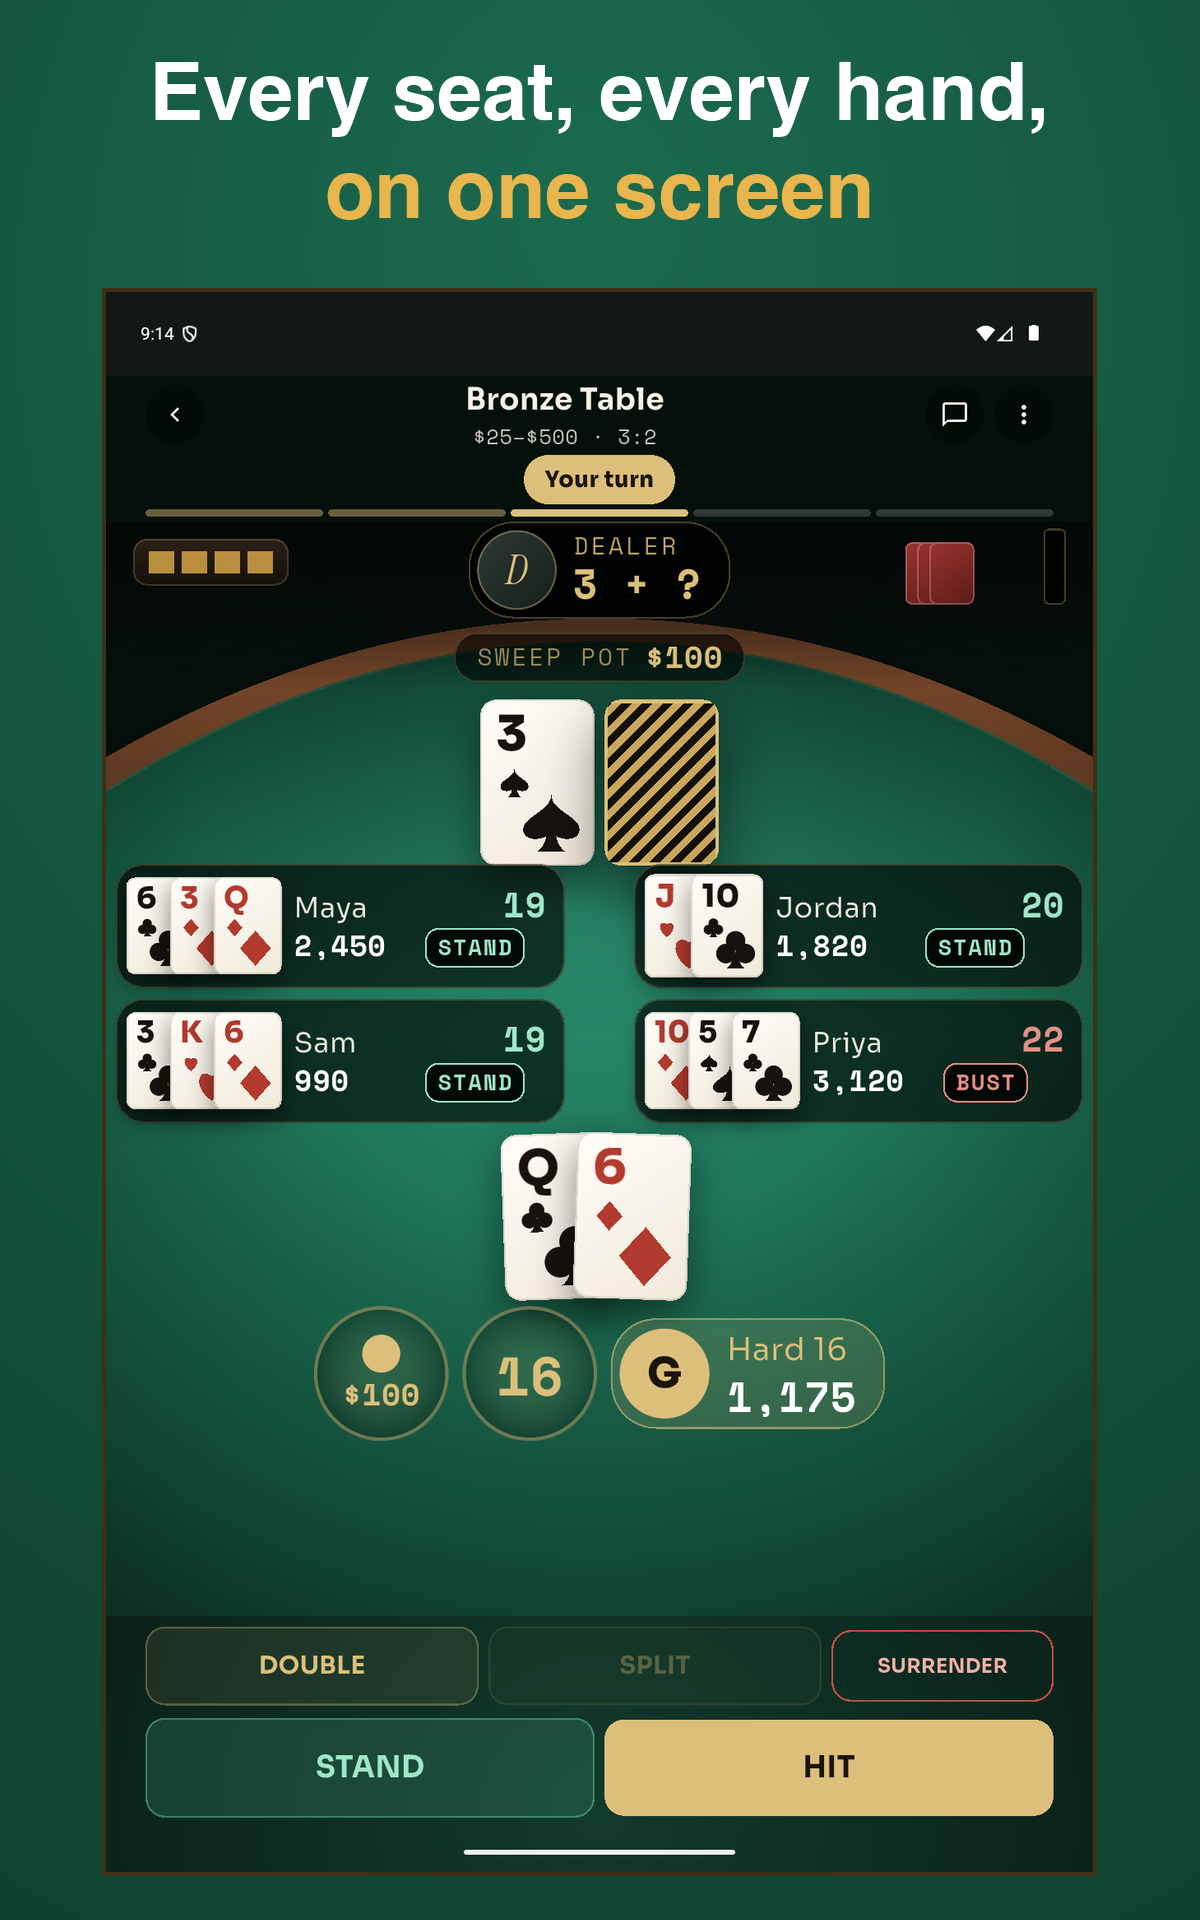
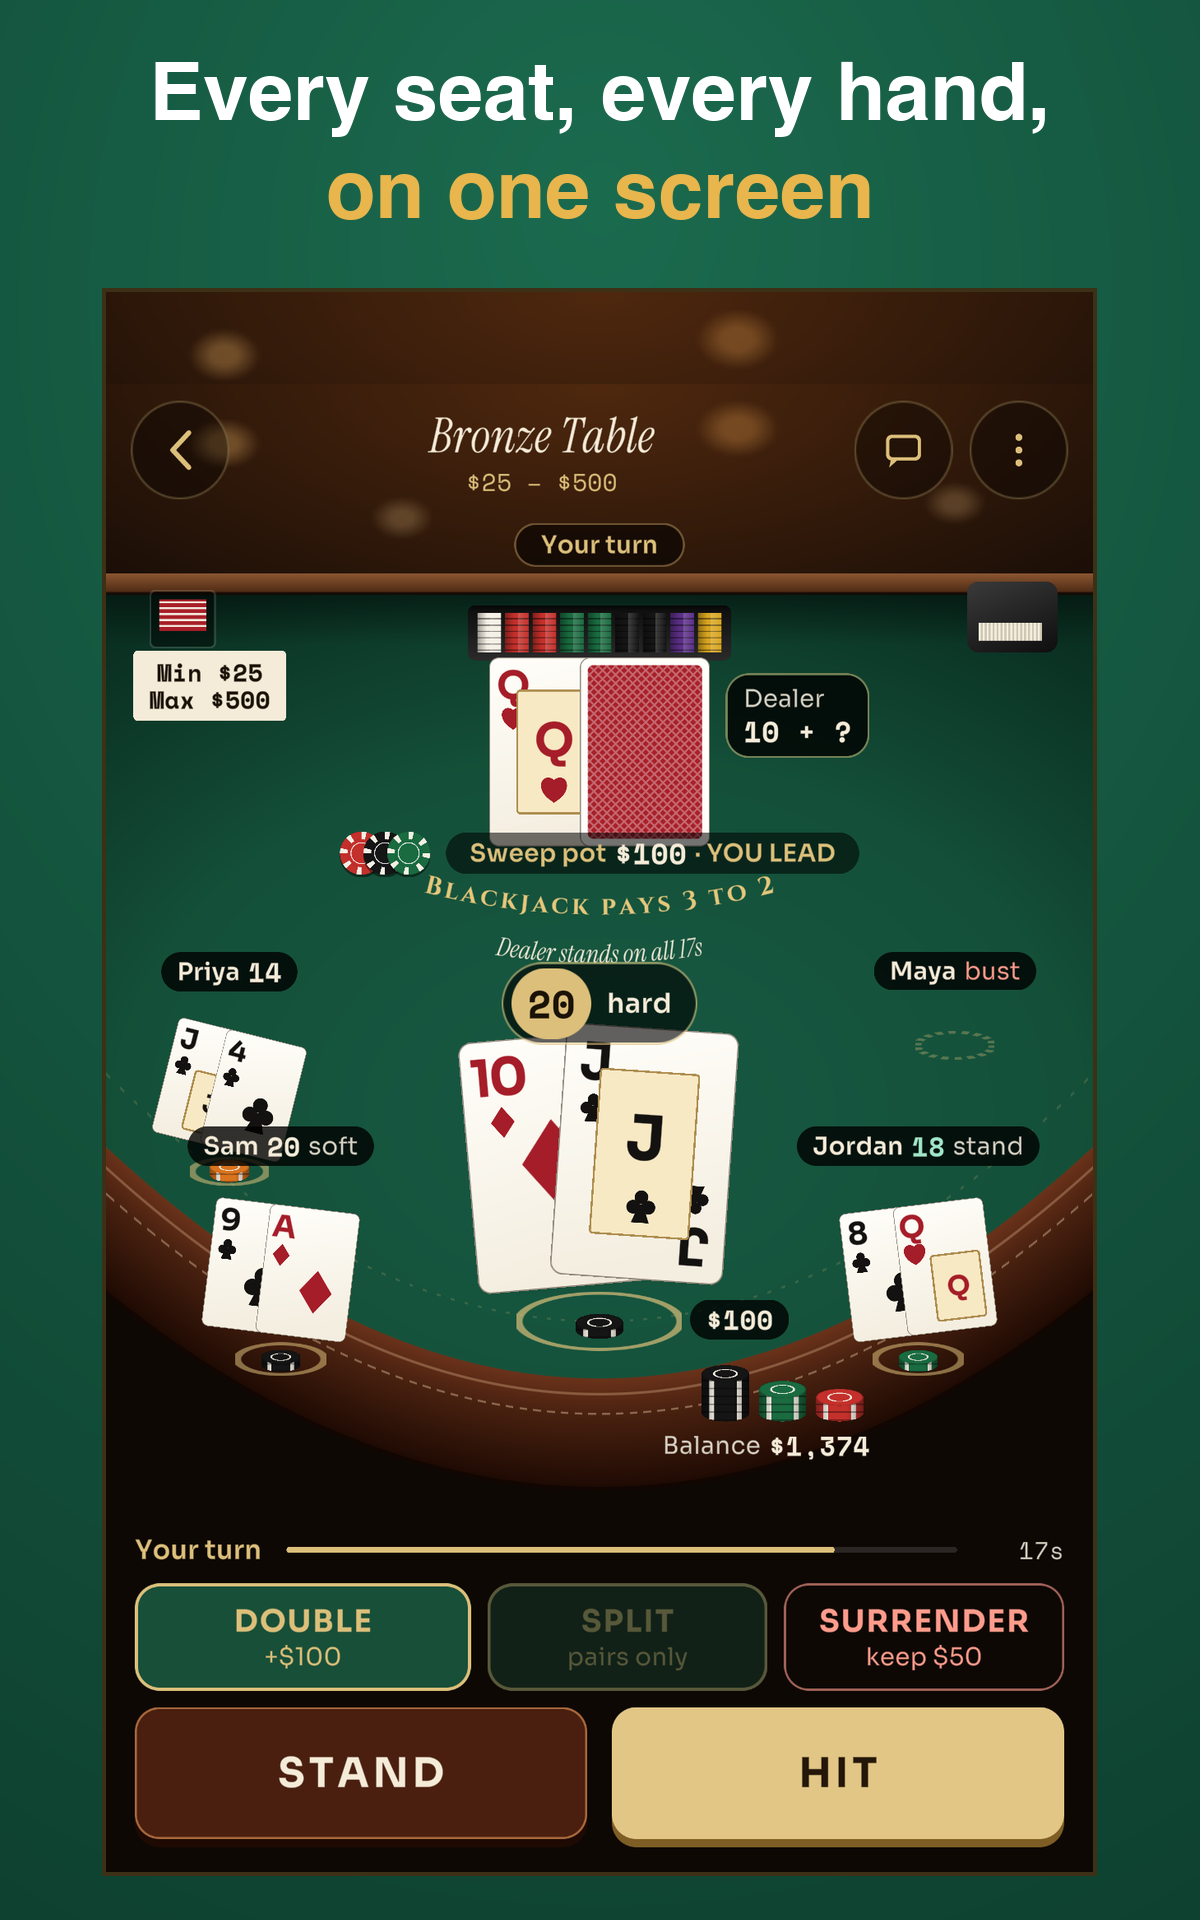
docs: refresh the Play store screenshots to the Seat look
The phone, 7-inch and 10-inch listing screenshots still showed the
pre-redesign UI. Re-captured from the 1.8.2 build on the blackjack-qa
emulator, composed with tool/make_store_shots.py and uploaded through the
Play Console (the service account's edits.commit returns 403). README
changelog records the route and the owner-account profile (/console/u/1).

No app code changed, so no device build was needed.

diff --git a/README.md b/README.md
@@ -451,6 +451,19 @@ lines show the SDK initialising and the anonymous sign-in.
 
 ## Changelog
 
+### 2026-10-15 (store screenshots)
+- docs: the Play listing's phone, 7-inch and 10-inch screenshots are re-captured from the 1.8.2 build
+  (The Seat look) and replace the ones that still showed the previous design. They came from the
+  `blackjack-qa` emulator (phone 1080×2340, tablets at `wm size` 1200×1920 and 1600×2560), composed with
+  `tool/make_store_shots.py` and uploaded through Play Console → Store listings → Default listing, then
+  saved and sent for review together with the 1.8.2 (12) rollout. Only `en-US` carries screenshots in the
+  API, but the Console propagates the change to every listing language. The Console route was needed
+  because `tool/play_images.py` uploaded the images but its `edits.commit` was refused with `403 The
+  caller does not have permission` for the `play-publisher` service account (see **Publishing to Google
+  Play** for its permissions); the owner account is the Chrome profile at `/console/u/1/` (`u/0` is a
+  different Google account with no developer account). The Friends shot shows the invite code as dots
+  because the emulator build is not signed in.
+
 ### 2026-10-15 (privacy policy)
 - fix: the hosted Privacy Policy (`hosting/privacy-policy.html`, the URL on the Play listing) no longer
   claims the app uses "no analytics or crash-reporting SDK". It now matches the in-app policy: it names
@@ -527,8 +540,8 @@ lines show the SDK initialising and the anonymous sign-in.
   registry and pass the design rules: the table keeps casino order in every language (first base on the
   right) while the text, panels, pills and turn order mirror.
 - docs: `docs/design-concepts/the-seat/` (the ten screens, the overview and the PDF) is tracked as the
-  design reference. The Play screenshots are not refreshed yet: the rule for them is a real session on a
-  device (see **Regenerating the store assets**), and they still show the previous look.
+  design reference. The Play screenshots were not refreshed in this change: the rule for them is a real
+  session on a device (see **Regenerating the store assets**); they were refreshed later on 2026-10-15.
 
 ### 2026-10-14 (The Seat, phase 5: the rest of the app)
 - feat: the lobby, stats, friends, settings, onboarding, the navigation bar, dialogs and sheets move into
